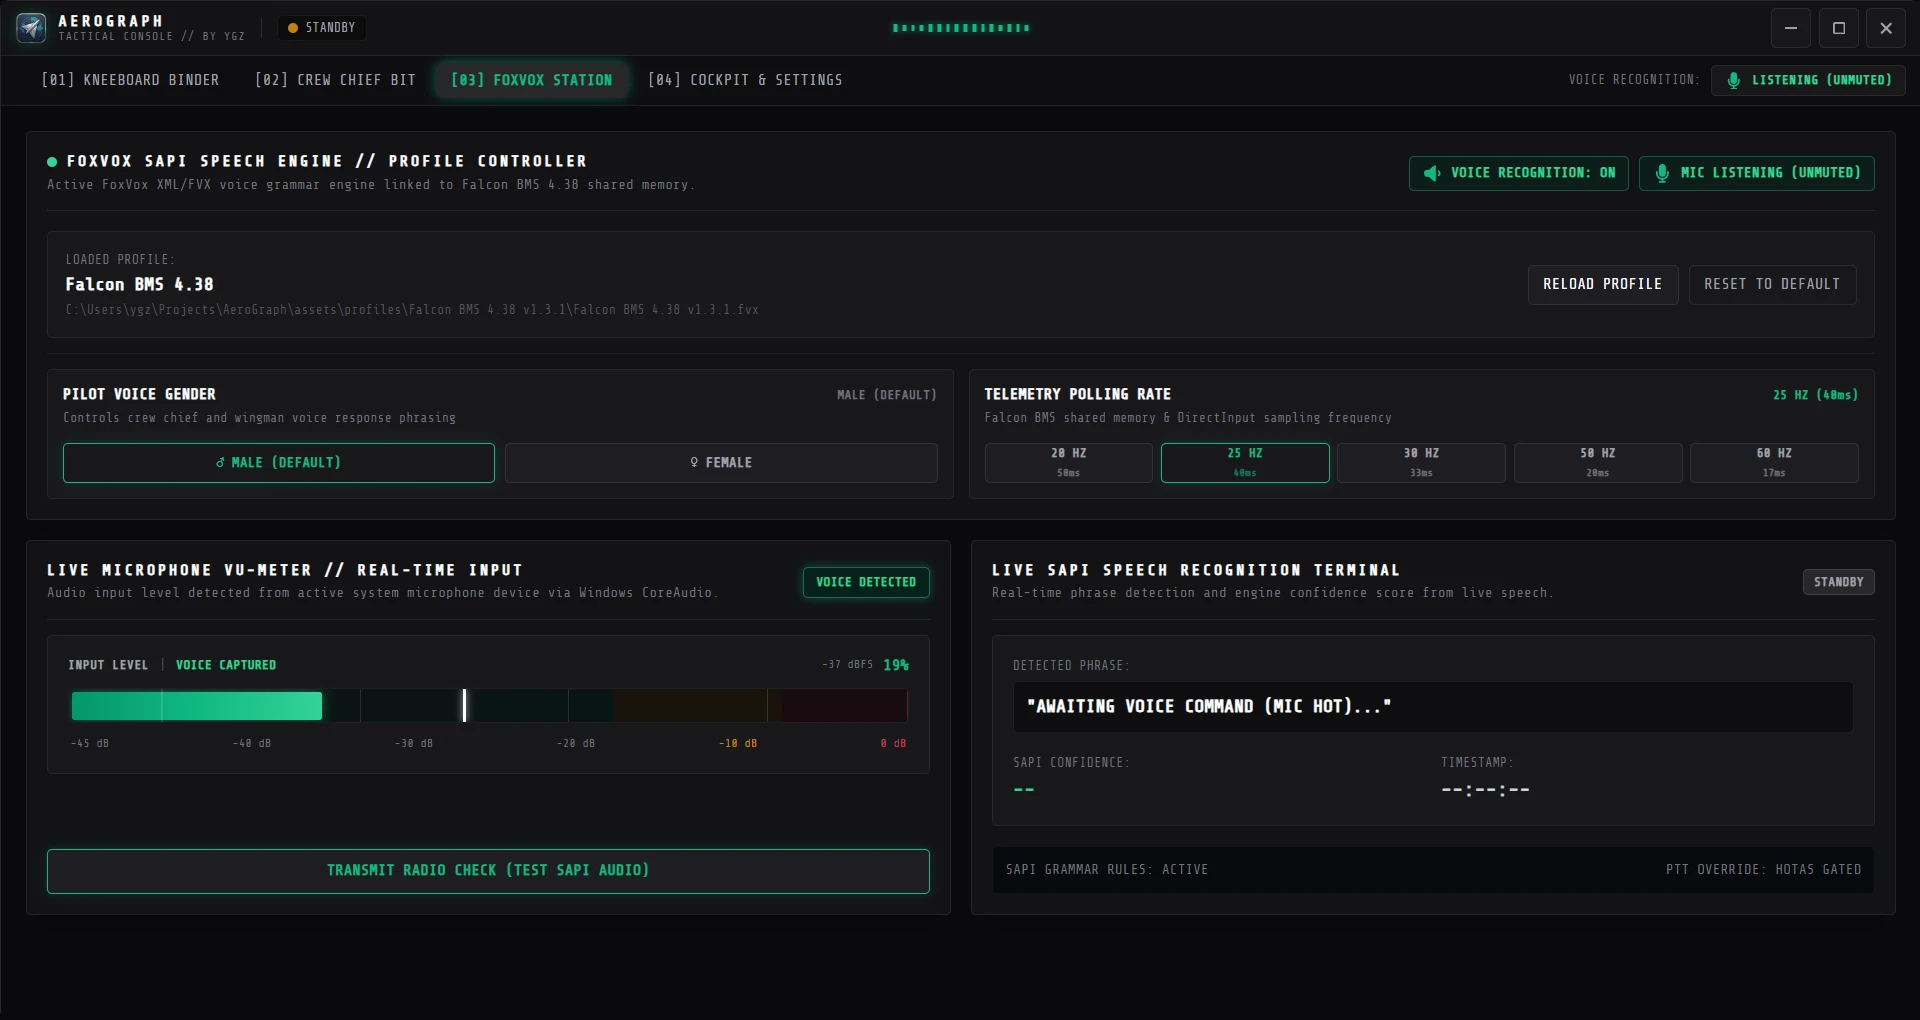
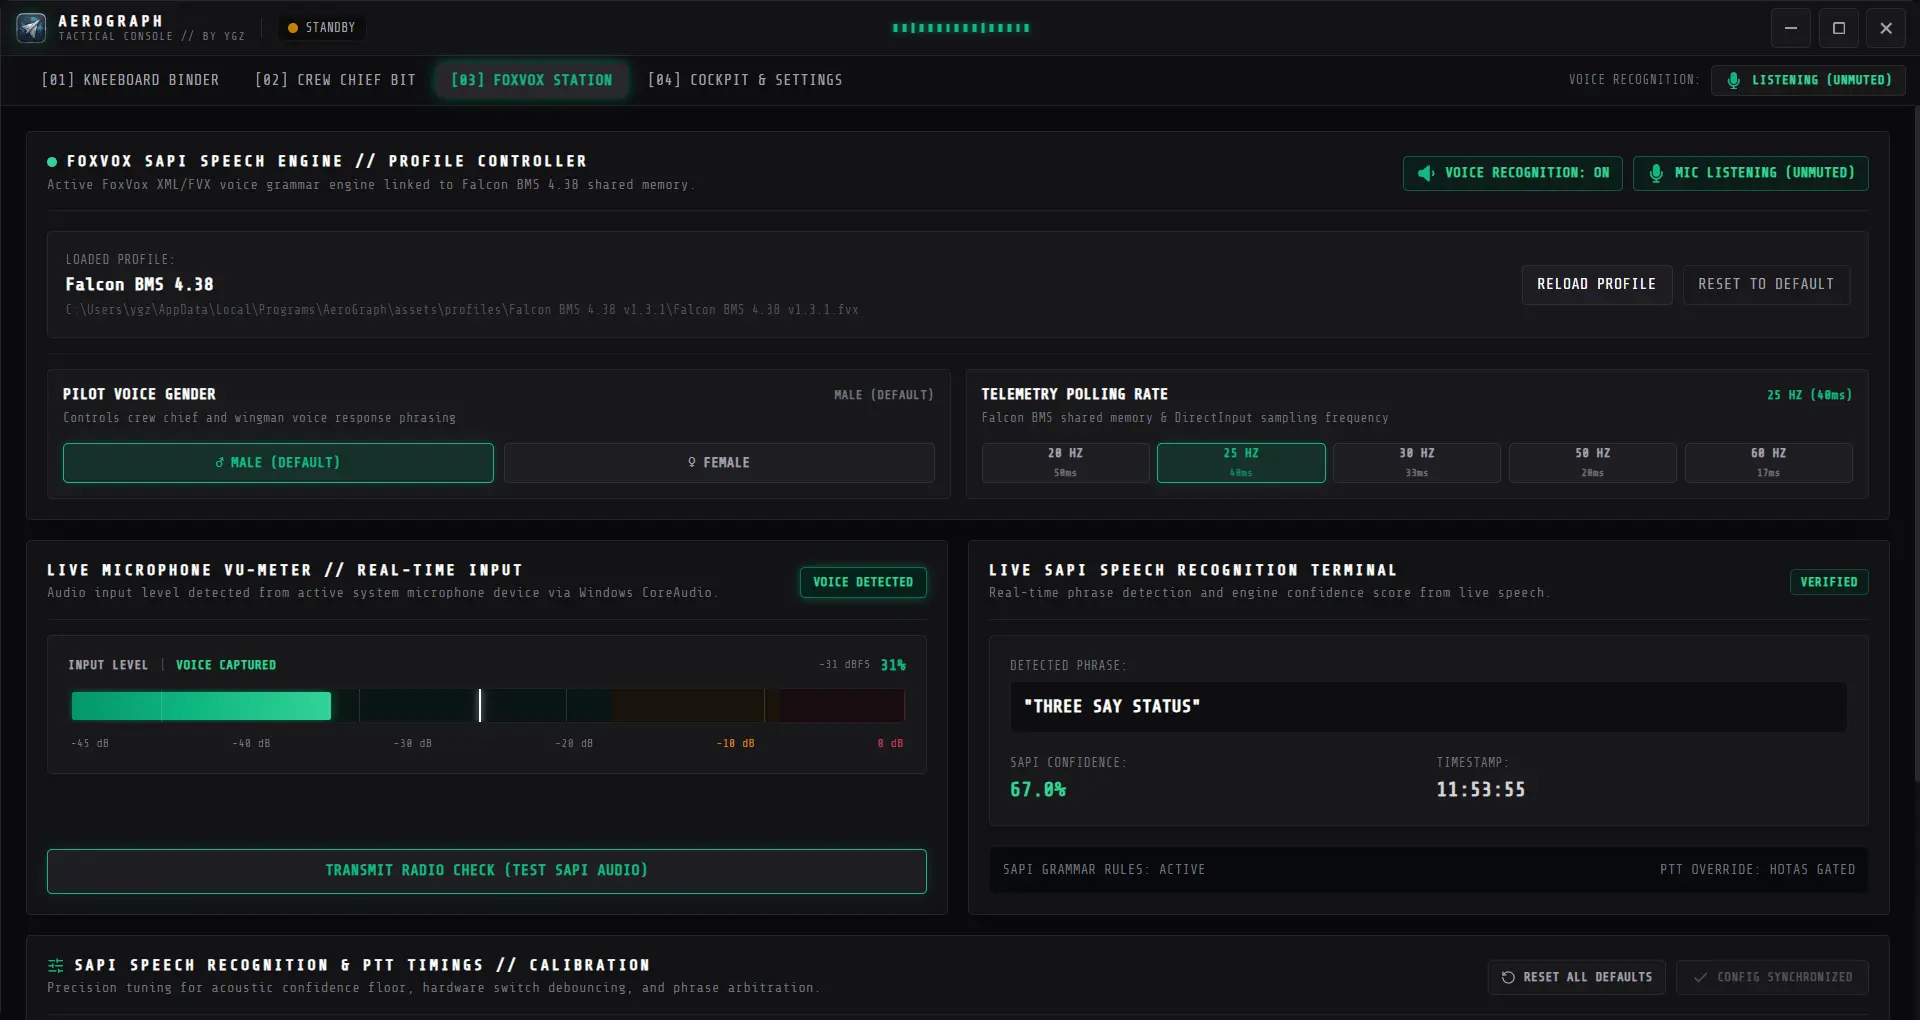
docs: update README and station screenshots for SAPI calibration and kneeboard markdown syntax

diff --git a/README.md b/README.md
@@ -317,6 +317,24 @@ auto_engage_voice = true
 # DirectInput wheel brake pedal axis inversion (true = invert raw 1.0 resting pedals to 0.0 idle, toggleable via UI)
 invert_wheel_brakes = true
 
+# SAPI speech recognition minimum confidence floor (0-100%, default 50%)
+min_confidence = 50
+
+# Hardware PTT minimum switch hold interval (ms) to debounce accidental momentary taps
+min_ptt_duration_ms = 300
+
+# Push-To-Talk post-release grace window (ms) buffering speech while concluding phrases
+ptt_release_grace_ms = 1500
+
+# Silence timeout (ms) after speaking before SAPI triggers an unambiguous command
+end_silence_timeout_ms = 1000
+
+# Silence timeout (ms) when multiple grammar rules potentially match (arbitration buffer)
+end_silence_timeout_ambiguous_ms = 1500
+
+# Maximum duration (ms) SAPI waits for speech to begin after PTT activation before closing
+initial_silence_timeout_ms = 5000
+
 # Start AeroGraph minimized to system tray when Windows boots
 start_with_windows = false
 
@@ -434,7 +452,7 @@ The **Template Catalog** provides a unified visual browser for all available kne
 </p>
 
 Clicking **Edit** on any notes slot switches the console into a real-time, side-by-side Markdown editor:
-- **Split-Screen Live Rendering**: Type in the left editor pane and see the exact 1024×1554 cockpit texture update in real time on the right preview pane.
+- **Top Bar For Quick Styling**: You don't have to know about the Markdown or come back to this file as a guide every time, you can use the included top bar to style your notes.
 - **Header Customization**: Set the top header title, subtitle, T.O. code, and page identifier.
 - **Hazard Stripe Presets**: Select from `standard` (black/white), `caution` (yellow), `warning` (red), `emergency` (solid red), `tactical` (navy/blue), or `green` (forest green), with optional `spaced` stripe styling.
 - **Full Semantic Markdown Syntax**:
@@ -445,23 +463,31 @@ Clicking **Edit** on any notes slot switches the console into a real-time, side-
 | `## Section` | **Secondary Section Header** | Bold dark section header with horizontal divider |
 | `### Subheader` | **Minor Subhead** | Compact slate-gray subhead |
 | `[SECTION]` | **Category Pill Badge** | Dark rectangular badge with bold white text |
+| `> Note text` | **Callout Blockquote** | Stylized callout box with thick left accent border and shaded background |
+| `![Alt](path/image.png)` | **Embedded Image** | Centered high-resolution image scaled cleanly to page width |
 | `WARNING: text` | **Safety Alert Box** | Red-bordered callout box with bold `WARNING` badge |
 | `CAUTION: text` | **Advisory Caution Box** | Amber-bordered callout box with bold `CAUTION` badge |
 | `[ ] Item` or `- [ ] Item` | **Pending Checkbox** | Square checkbox for pending cockpit checklist items |
 | `[x] Item` or `- [x] Item` | **Checked Box** | Green square with checkmark for completed items |
 | `- Item` or `* Item` | **Bullet Point** | Clean list item with square bullet dot |
 | `KEY: VALUE` | **Two-Column Data Card** | Monospace highlight badge (e.g. `BULLSEYE: 045 / 60NM`) |
+| `**bold text**` | **Inline Bold** | High-contrast bold typography (`<strong>bold text</strong>`) |
+| `*italic*` or `_italic_` | **Inline Italic** | Distinct italicized emphasis (`<em>italic</em>`) |
+| `\:` | **Escaped Colon** | Keeps a colon on plain text lines without splitting into a two-column card |
+| `\[...\]` | **Escaped Brackets** | Renders literal brackets without creating a solid section badge |
+| `\WARNING:` / `\CAUTION:` | **Escaped Alerts** | Renders literal warning/caution text without creating alert banners |
 
 - **Aviation Semantic Inline Color Tags**:
   - `{green: text}`: Active states, primary laser codes, authorized clearances.
   - `{yellow: text}`: Caution advisories, standby frequencies, secondary codes.
   - `{red: text}`: Danger warnings, SAM threat types, emergency bingo levels.
   - `{blue: text}`: Tactical navigation coordinates, Bullseye vectors, VHF frequencies.
-  - `{orange: text}` / `{cyan: text}` / `{gray: text}`: Tactical color coding.
+  - `{orange: text}` / `{cyan: text}` / `{purple: text}` / `{magenta: text}` / `{pink: text}` / `{violet: text}` / `{teal: text}` / `{lime: text}` / `{brown: text}` / `{gray: text}`: Rich tactical color palette.
   - `{#HEX: text}`: Any custom hex color (e.g. `{#E91E63: strike}`).
   - `{highlight: text}` or `{bg-yellow: text}`: High-visibility black-on-yellow callout.
-  - `{bg-red: text}` / `{bg-green: text}` / `{bg-blue: text}`: Tinted background pill badges.
+  - `{bg-red: text}` / `{bg-green: text}` / `{bg-blue: text}` / `{bg-purple: text}`: Tinted background pill badges.
   - `{white: text}`: White text on dark high-contrast badge.
+  - `{black: text}`: Bold black text for daylight clarity.
 
 ---
 
@@ -551,16 +577,69 @@ The **Crew Chief BIT** view is a dedicated pre-flight diagnostic station for fli
 
 <p align="center">
   <img src="docs/images/foxvox-station.webp" alt="FoxVox Communications Station" width="950" /><br />
-  <em>FoxVox Station: Real-time CoreAudio microphone VU-meter, polling rate selector, pilot voice toggle, and live speech terminal.</em>
+  <em>FoxVox Station: Real-time CoreAudio microphone VU-meter, live SAPI speech recognition terminal, and profile controller.</em>
 </p>
 
-The **FoxVox Station** is a dedicated comms operations center and real-time speech terminal:
-- **High-Precision Microphone VU-Meter**: Direct CoreAudio peak sampling provides a smooth, real-time volume bar with visual noise-gate threshold.
-- **Master Voice Engine Controls**: Master Speech Recognition toggle and hands-free Listening switch (Active vs Standby).
-- **Hardware Polling Rate Hz**: Select discrete sampling rates (**10 Hz, 20 Hz, 25 Hz, 33 Hz, 50 Hz, 100 Hz**) to balance controller responsiveness with minimal CPU impact.
-- **Pilot Voice Gender**: One-click toggle between Male and Female pilot voice responses.
-- **Active Profile Card**: Displays currently loaded `.fvx` profile name, command count, profile path, and buttons to browse profiles (`Select Profile`), recompile binary grammar (`Reload Grammar`), or restore default profile.
-- **Terminal & Audio Tester**: Real-time diagnostic terminal displaying recognized phrases and confidence values. Includes a voice test transmission box to play test phrases through your headphones without speaking.
+The **FoxVox Station** is your comms center and real-time speech operations dashboard, uniting profile management, real-time audio meters, and live phrase recognition:
+
+#### 8.1 Profile Controller & Engine Management
+- **Voice Recognition Master Toggle**: One-click switch to turn speech recognition and controller switch sampling `ON` or `OFF`.
+- **Microphone Listening State (`LISTENING` vs `STANDBY (MUTED)`)**: Quickly mute or unmute the microphone via the UI button or spoken commands (*"Stand by"* to mute, *"Radio check"* to unmute).
+- **Active Profile Banner**: Displays the currently loaded `.fvx` profile name, filepath, and quick-action buttons to **Reload Profile** or **Reset to Default**.
+- **Pilot Voice Gender**: Toggle between **♂ Male (Default)** and **♀ Female** callsign phrasing for ground crew and wingman acknowledgments.
+- **Telemetry Polling Rate**: Discrete frequency selectors (**20 Hz, 25 Hz, 30 Hz, 50 Hz, 60 Hz**) to balance DirectInput switch responsiveness with minimal CPU footprint.
+
+#### 8.2 Live Microphone VU-Meter & Recognition Terminal
+- **High-Precision Microphone VU-Meter**:
+  - Live CoreAudio continuous peak sampling measures your system microphone input level.
+  - Perceptual logarithmic dBFS readout ($-45\text{ dB}$ to $0\text{ dB}$) and percentage gauge.
+  - Color-coded safety zones: Green ($-45\text{ dB}$ to $-15\text{ dB}$), Amber ($-15\text{ dB}$ to $-6\text{ dB}$), and Red ($-6\text{ dB}$ to $0\text{ dB}$).
+  - Persistent peak-hold needle and noise-gate status indicators (`IDLE`, `VOICE DETECTED`, `MUTED`, `OFFLINE`).
+- **Live SAPI Speech Recognition Terminal**:
+  - Displays the exact phrase detected by Windows SAPI in real time with high-visibility styling.
+  - Reports the engine's acoustic confidence percentage (e.g. `98.5%`), exact timestamp, and verification status (`VERIFIED` vs `STANDBY`).
+  - **Transmit Radio Check**: One-click button to play a test audio transmission through your headphones without speaking, verifying SAPI audio output and volume levels.
+
+---
+
+#### 8.3 SAPI Speech Recognition & PTT Timings Calibration
+
+<p align="center">
+  <img src="docs/images/foxvox-sapi-settings.webp" alt="SAPI Speech Recognition and PTT Timings Calibration" width="950" /><br />
+  <em>SAPI Speech Recognition &amp; PTT Calibration: Interactive 6-slider matrix for confidence floors, switch debouncing, and phrase arbitration.</em>
+</p>
+
+Different pilots fly with different microphones, headset background noise, and HOTAS switch gear. AeroGraph features a dedicated $3 \times 2$ calibration matrix with 6 interactive sliders to fine-tune speech recognition and Push-To-Talk timing for your exact setup:
+
+#### The 6 Calibration Sliders Explained:
+
+> [!TIP] 
+> I found myself setting **Speech Confidence Floor** up to **80%**, since the confidence levels are too high most of the time. 80% gives a good middle ground.
+
+1. **Speech Confidence Floor (`0%` – `100%`, Default: `50%`)**:
+   - *What it does*: Sets how confident Windows SAPI must be before executing a voice command in the cockpit. Phrases scored below this floor are safely discarded.
+   - *Everyday tuning*: If ambient room noise, heavy breathing, or Discord chatter accidentally triggers cockpit switches, slide this up toward **Strict (`60%–70%`)**. If the simulator consistently ignores your voice on the first try, nudge it down toward **Permissive (`40%–45%`)**.
+2. **PTT Minimum Hold Duration (`0ms` – `1000ms`, Default: `300ms`)**:
+   - *What it does*: Debounces your HOTAS Push-To-Talk button by requiring it to be held for a minimum duration before accepting speech. You can press and hold PTT button in the grace period (see down below) and it will still execute the spoken command. This setting is to prevent accidental executions (or to mimic readbacks when you don't want them to be sent to the tower by just clicking the button in a very short time like I use it for).
+   - *Everyday tuning*: Prevents accidental brush clicks or momentary switch bounces from opening the radio. If you frequently bump your PTT switch by mistake, leave this at `300ms` or raise to `400ms`. If you use crisp microswitches and speak immediately upon clicking, you can lower it to `100ms–150ms`.
+3. **PTT Post-Release Grace Window (`0ms` – `2000ms`, Default: `1500ms`)**:
+   - *What it does*: Detects in which period after the **speach is detected** and your button press detected. If too short, the speech detection can take a while to process that information and your button press will be negated. The algorithm will think that you didn't press the PTT button while you speak.
+   - *Everyday tuning*: If you find yourself that in the program logs the button was not pressed so the speech is discarded, you can increase the setting. If you find it too relaxed for your fast-paced talking habits, you can shorten it, while giving the program some time to convert your speech to text. Therefore, `0ms` is **not recommended**!
+4. **End-of-Phrase Response Delay (`300ms` – `2000ms`, Default: `1000ms`)**:
+   - *What it does*: Silence timeout required after you finish speaking an unambiguous command (like *"Tower, Inbound"*) before SAPI fires the command.
+   - *Everyday tuning*: Lower values (`500ms–700ms`, Hair-Trigger) execute commands with lightning speed. Higher values (`1200ms–1500ms`, Relaxed) give you breathing room so the engine doesn't cut you off if you pause naturally between words.
+5. **Ambiguous Phrase Arbitration Timeout (`500ms` – `3000ms`, Default: `1500ms`)**:
+   - *What it does*: Extended pause required when multiple commands share the same opening words (e.g. *"Flight Rejoin"* vs *"Flight Return"*).
+   - *Everyday tuning*: Gives SAPI additional arbitration time to confirm whether you're about to speak another word before deciding which command you meant.
+6. **Initial Silence Timeout (`1000ms` – `10000ms`, Default: `5000ms`)**:
+   - *What it does*: Maximum time SAPI waits for you to begin speaking after keying the mic before closing the window.
+   - *Everyday tuning*: If you key the radio but hesitate or get interrupted, this timer closes the listening window so the microphone doesn't stay open waiting indefinitely. In stressful situations, we tend to press the button and forget to speak. That's what this setting is for.
+
+#### Controls & Safety:
+- **Individual Slider Reset (`↺`)**: Click the circular reset arrow on any slider card to instantly revert that specific setting back to its factory default.
+- **`RESET ALL DEFAULTS`**: One-click reset to restore all six calibration parameters together.
+- **`DISCARD`**: Abandons unsaved slider changes and restores your currently saved configuration.
+- **`APPLY CONFIGURATION (UNSAVED)`**: A pulse-highlighted emerald button appears whenever any slider is adjusted. Clicking it writes your changes to `aerograph.toml` and hot-reloads the active Windows SAPI engine parameters live in memory without restarting AeroGraph or interrupting Falcon BMS!
 
 ---
 
@@ -667,9 +746,13 @@ You can provide notes either directly in `kneeboards.json` or by pointing to an 
   "notes": [
     "## 1. BVR COMBAT RULES OF ENGAGEMENT",
     "- Hostile criteria: 2x sensor confirmation or AWACS Bogey Dope {yellow: 'HOT/HOSTILE'}",
+    "- Primary target {purple: SA-6 BATTERY} with **high priority** and _tactical precision_",
     "- Weapons Free beyond {green: 25nm} Bullseye 045/60",
     "- Primary Laser Code: {green: 1688} / Secondary: {yellow: 1111}",
     "",
+    "> Ensure FLCS power supply switch is set to NORM and ground pins are stowed",
+    "",
+    "[WEAPONS MATRIX]",
     "BULLSEYE: {blue: 045 / 60NM}",
     "PACKAGE VHF: {blue: 138.250}",
     "RAMROD: {blue: CHARLIE}",
@@ -679,8 +762,12 @@ You can provide notes either directly in `kneeboards.json` or by pointing to an 
     "[ ] Master Arm {yellow: ARM} at STPT 4 (Fence In)",
     "[ ] Laser Arm {green: ON} prior to 5nm to Target",
     "",
+    "![Tactical Ingress](custom/threat_diagram.png)",
+    "",
     "WARNING: {highlight: Active SA-10 Grumble} radar tracking near STPT 6",
-    "CAUTION: Maintain minimum 18,000 FT MSL until IP ingress"
+    "CAUTION: Maintain minimum 18,000 FT MSL until IP ingress",
+    "",
+    "Flight directive with escaped colon\\: that remains on a single text line"
   ]
 }
 ```
@@ -765,19 +852,32 @@ You can customize the top hazard stripe pattern and header bar colors using buil
 | `## Section` | **Secondary Section Header** | Bold dark header with horizontal underline |
 | `### Subheader` | **Minor Subhead** | Compact slate-gray subhead |
 | `[SECTION]` | **Category Pill Badge** | Dark rectangular badge with bold white text |
-| `WARNING: text` | **Safety Alert Box** | Red-bordered callout box with a bold `WARNING` badge |
-| `CAUTION: text` | **Advisory Caution Box** | Amber-bordered callout box with a bold `CAUTION` badge |
+| `> Note text` | **Callout Blockquote** | Stylized callout box with thick left accent border and shaded background |
+| `![Alt](path/image.png)` | **Embedded Image** | Centered high-resolution graphic scaled cleanly to kneeboard dimensions |
+| `WARNING: text` / `[WARNING] text` | **Safety Alert Box** | Red-bordered callout box with a bold `WARNING` badge |
+| `CAUTION: text` / `[CAUTION] text` | **Advisory Caution Box** | Amber-bordered callout box with a bold `CAUTION` badge |
 | `[ ] Item` or `- [ ] Item` | **Empty Checkbox** | Square checkbox for pending cockpit checklist items |
 | `[x] Item` or `- [x] Item` | **Checked Box** | Green square with checkmark for completed items |
 | `- Item` or `* Item` | **Bullet Point** | Clean list item with square bullet dot |
 | `KEY: VALUE` | **Two-Column Data Card** | Monospace highlight badge (e.g. `BULLSEYE: 045 / 60NM`) |
+| `**bold text**` | **Inline Bold** | High-contrast bold typography (`<strong>bold text</strong>`) |
+| `*italic*` or `_italic_` | **Inline Italic** | Distinct italicized emphasis (`<em>italic</em>`) |
+| `\:` | **Escaped Colon** | Prevents plain text lines from breaking into a two-column card |
+| `\[...\]` | **Escaped Brackets** | Renders literal brackets without creating a solid section badge |
+| `\WARNING:` / `\CAUTION:` | **Escaped Alert Prefixes** | Renders literal alert text without triggering full-width alert banners |
+| `\#`, `\>`, `\*`, `\_` | **Escaped Markdown Characters** | Renders literal markdown characters without formatting |
 
-#### Inline Text Coloring:
-Use `{color: text}` anywhere in your titles, keys, values, warnings, cautions, and checklist items:
-- `{red: text}`, `{yellow: text}`, `{green: text}`, `{blue: text}`, `{orange: text}`, `{cyan: text}`, `{gray: text}`, `{black: text}`
-- `{#E91E63: custom hex color}`
-- `{highlight: yellow marker highlight}` or `{bg-yellow: text}`
-- `{bg-red: text}`, `{bg-green: text}`, `{bg-blue: text}`, `{white: white text on dark badge}`
+#### Inline Text & Background Coloring:
+Use `{color: text}` anywhere in your titles, keys, values, warnings, cautions, checklists, and bullet items:
+- **Foreground Colors**: `{red: text}`, `{green: text}`, `{blue: text}`, `{yellow: text}`, `{orange: text}`, `{cyan: text}`, `{purple: text}`, `{magenta: text}`, `{pink: text}`, `{violet: text}`, `{teal: text}`, `{lime: text}`, `{brown: text}`, `{gray: text}`, `{black: text}`
+- **Custom Hex Colors**: `{#HEX: text}` (e.g. `{#E91E63: strike}`, `{#00E676: clear}`)
+- **Background Callouts**:
+  - `{highlight: yellow marker highlight}` or `{bg-yellow: text}`: High-visibility black text on caution yellow highlight.
+  - `{bg-red: text}`: Dark red text on soft red badge.
+  - `{bg-green: text}`: Forest green text on soft green badge.
+  - `{bg-blue: text}`: Navy blue text on soft blue badge.
+  - `{bg-purple: text}`: Deep violet text on soft purple badge.
+  - `{white: text}`: White text on dark high-contrast pill badge.
 
 ---
 
